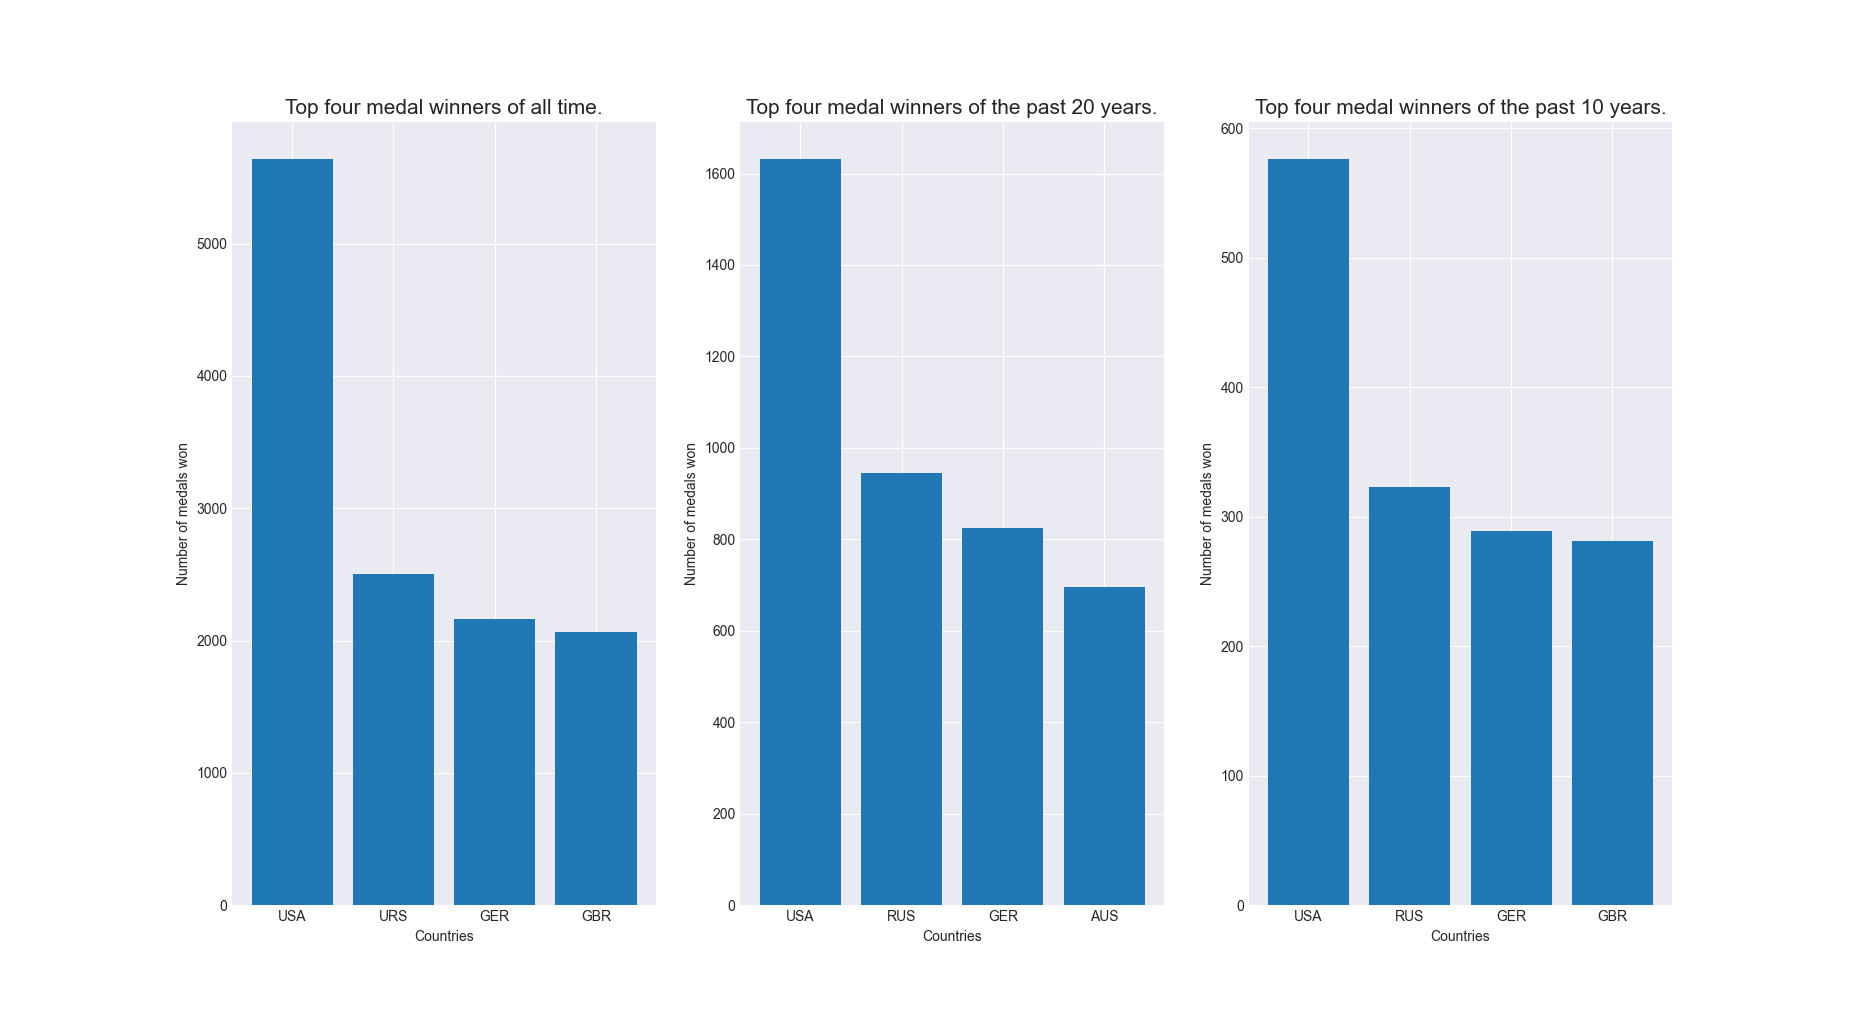
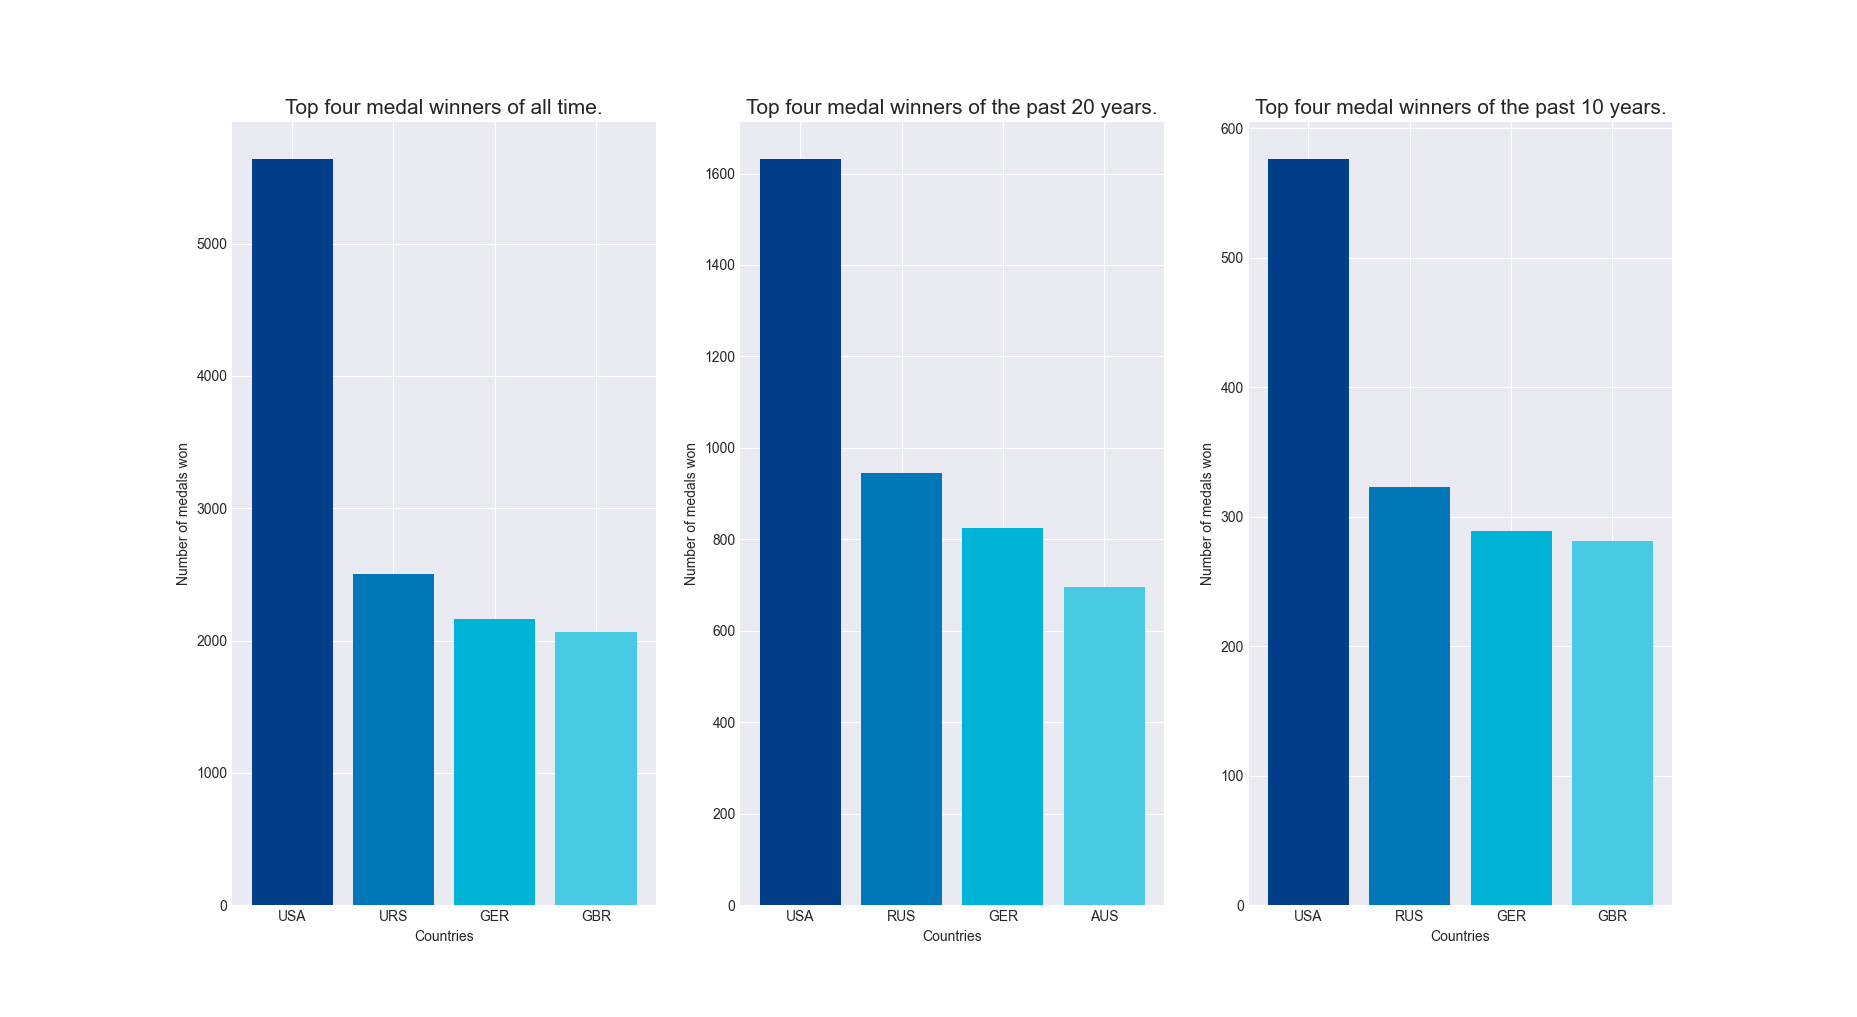
Colors have been changed

Changed region(s): [[0.6559, 0.1524, 0.9058, 0.9145], [0.406, 0.1524, 0.6247, 0.9145], [0.1249, 0.1524, 0.3436, 0.9145]]

diff --git a/medals.py b/medals.py
@@ -34,9 +34,14 @@ if __name__ == '__main__':
     # Plot
     plt.style.use('seaborn-darkgrid')
     fig, (ax1, ax2, ax3) = plt.subplots(1, 3)
-    ax1.bar([x[0] for x in top_4_timespan], [x[1] for x in top_4_timespan])
-    ax2.bar([y[0] for y in top_4_20], [y[1] for y in top_4_20])
-    ax3.bar([z[0] for z in top_4_10], [z[1] for z in top_4_10])
+
+    colors = ['#023e8a', '#0077b6', '#00b4d8', '#48cae4']
+    ax1.bar([x[0] for x in top_4_timespan], [x[1] for x in top_4_timespan],
+            color=colors)
+    ax2.bar([y[0] for y in top_4_20], [y[1] for y in top_4_20],
+            color=colors)
+    ax3.bar([z[0] for z in top_4_10], [z[1] for z in top_4_10],
+            color=colors)
 
     ax1.set_xlabel("Countries")
     ax1.set_ylabel("Number of medals won")
